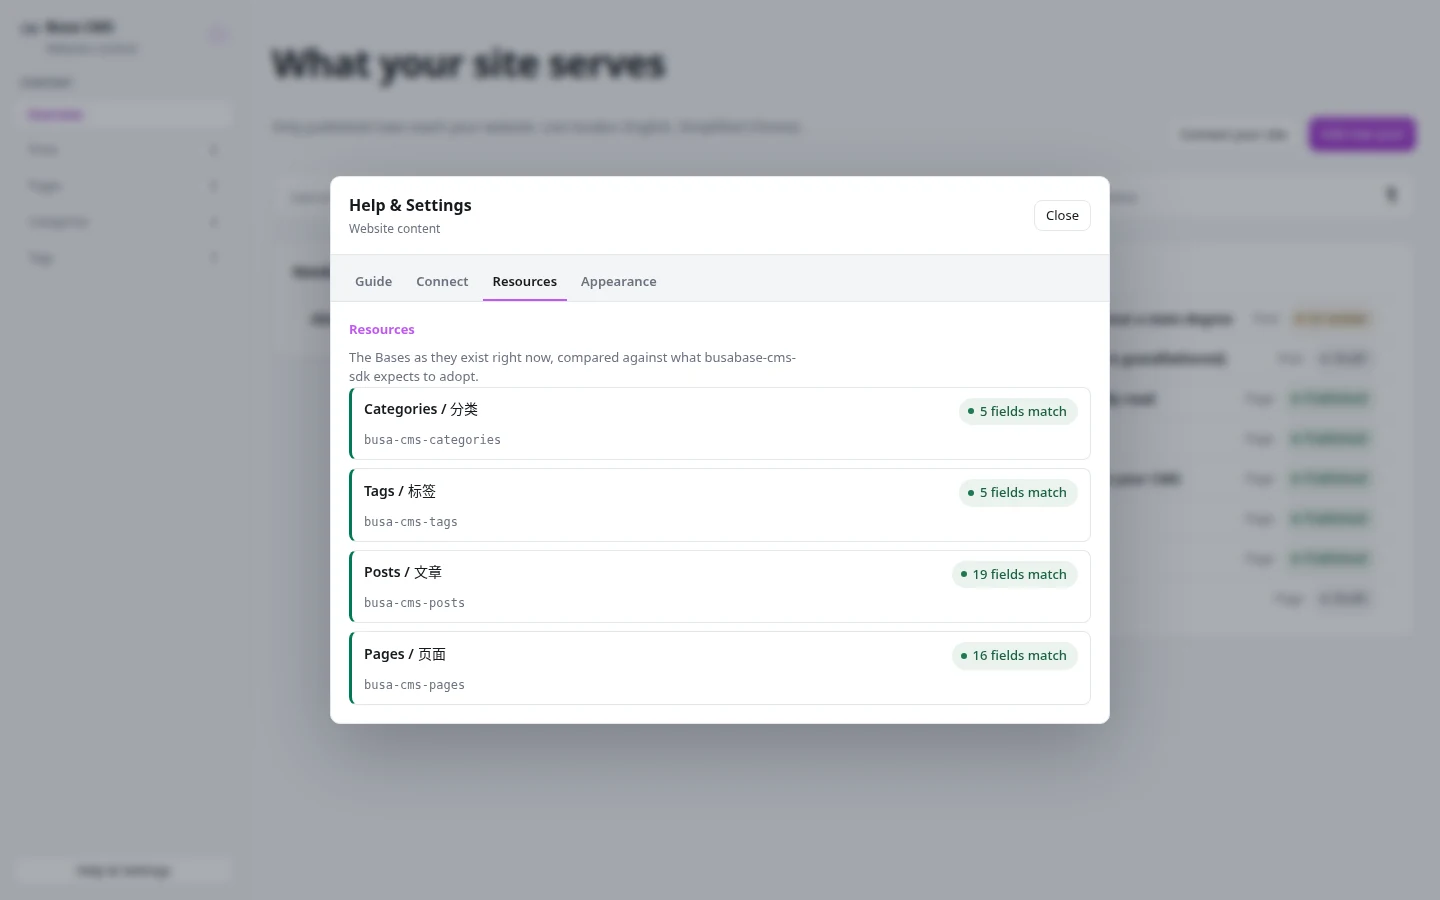
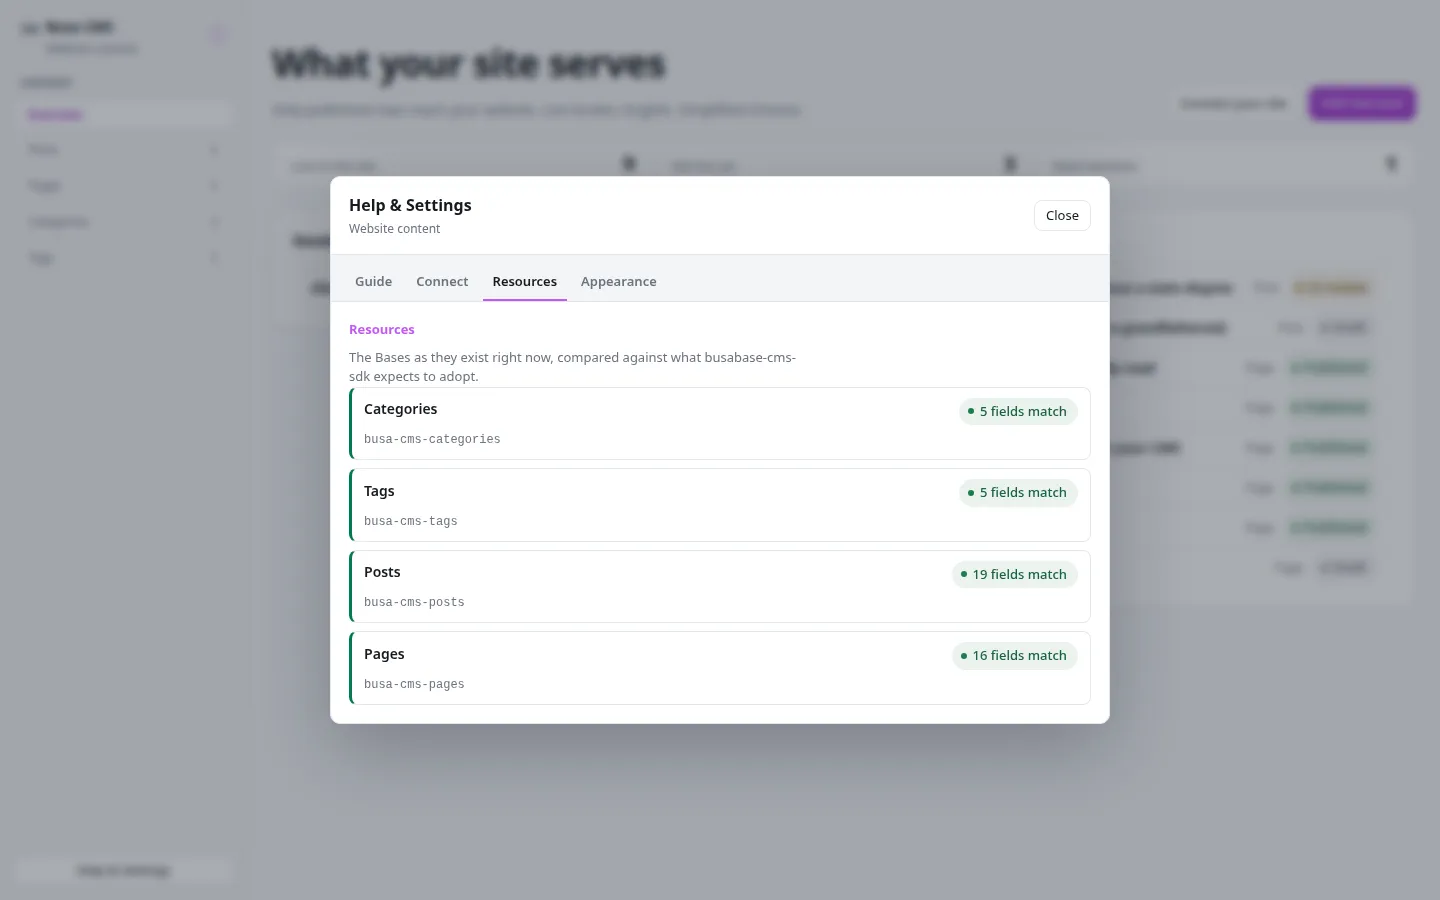
feat(busa-cms): English-only display names (#55)

diff --git a/templates/busa-cms/content/busa-cms-app/app/js/schema.js b/templates/busa-cms/content/busa-cms-app/app/js/schema.js
@@ -7,6 +7,15 @@
  * Node project served from a Busabase node: it cannot resolve an npm package
  * that only the website using this content has installed.
  *
+ * One deliberate divergence: display names. The SDK provisions paired
+ * "English / 中文" Base and choice names; this template installs the English
+ * name alone and keeps the Chinese name in `localizedName` (fields already
+ * carry theirs as the { en, "zh-CN" } name record), which the app renders per
+ * viewer language. Slugs, choice ids, field types, required flags and order
+ * still mirror the SDK exactly — `check-sdk-contract.mjs` therefore reports
+ * the name/description differences by design, and they are the known,
+ * intended exception until the SDK makes the same split.
+ *
  * That makes drift the real risk, so it is checked rather than trusted:
  * `node scripts/check-sdk-contract.mjs` (run from the template root) resolves the
  * published `busabase-cms-sdk` and asserts every Base, field, type, required flag,
@@ -25,7 +34,7 @@
 const i18n = (en, zhCN) => ({ en, "zh-CN": zhCN });
 
 const choices = (values) => ({
-  choices: values.map(([id, en, zhCN]) => ({ id, name: `${en} / ${zhCN}` })),
+  choices: values.map(([id, en, zhCN]) => ({ id, name: en, localizedName: i18n(en, zhCN) })),
 });
 
 export const LOCALE_OPTIONS = choices([
@@ -132,26 +141,34 @@ const pageFields = () => [
 export const CMS_BASES = [
   {
     role: "categories",
-    name: "Categories / 分类",
-    description: "Reusable content categories / 可复用的内容分类",
+    name: "Categories",
+    localizedName: i18n("Categories", "分类"),
+    description: "Reusable content categories",
+    localizedDescription: i18n("Reusable content categories", "可复用的内容分类"),
     fields: taxonomyFields(),
   },
   {
     role: "tags",
-    name: "Tags / 标签",
-    description: "Reusable content tags / 可复用的内容标签",
+    name: "Tags",
+    localizedName: i18n("Tags", "标签"),
+    description: "Reusable content tags",
+    localizedDescription: i18n("Reusable content tags", "可复用的内容标签"),
     fields: taxonomyFields(),
   },
   {
     role: "posts",
-    name: "Posts / 文章",
-    description: "Publishable Markdown posts / 可发布的 Markdown 文章",
+    name: "Posts",
+    localizedName: i18n("Posts", "文章"),
+    description: "Publishable Markdown posts",
+    localizedDescription: i18n("Publishable Markdown posts", "可发布的 Markdown 文章"),
     fields: postFields(),
   },
   {
     role: "pages",
-    name: "Pages / 页面",
-    description: "Publishable HTML pages / 可发布的 HTML 页面",
+    name: "Pages",
+    localizedName: i18n("Pages", "页面"),
+    description: "Publishable HTML pages",
+    localizedDescription: i18n("Publishable HTML pages", "可发布的 HTML 页面"),
     fields: pageFields(),
   },
 ];
@@ -161,14 +178,17 @@ export const CMS_SCHEMA_VERSION = 1;
 export const CMS_SCHEMA_PROFILE = "standard";
 
 /**
- * Choice id → its "English / 中文" name, for the labels the UI shows. Derived from
- * the field definitions above so a choice can never be renamed in one place only.
+ * Choice id → its localized name ({ en, "zh-CN" }), for the labels the UI shows.
+ * The installed choice `name` is the English name alone; the Chinese name lives
+ * in `localizedName`, which is what the UI renders per viewer language. Derived
+ * from the field definitions above so a choice can never be renamed in one
+ * place only.
  */
 const namedChoices = (role, slug) =>
   Object.fromEntries(
     (CMS_BASES.find((base) => base.role === role)
       ?.fields.find((field) => field.slug === slug)
-      ?.options?.choices ?? []).map((choice) => [choice.id, choice.name]),
+      ?.options?.choices ?? []).map((choice) => [choice.id, choice.localizedName]),
   );
 
 export const CHOICES = {

diff --git a/templates/busa-cms/content/busa-cms-app/app/js/config.js b/templates/busa-cms/content/busa-cms-app/app/js/config.js
@@ -88,7 +88,8 @@ const views = {
   categories: [
     {
       key: "all-categories",
-      name: "All Categories / 全部分类",
+      name: "All Categories",
+      localizedName: { en: "All Categories", "zh-CN": "全部分类" },
       type: "table",
       config: {
         visibleFieldSlugs: ["name", "slug", "locale", "description", "updated-at"],
@@ -100,7 +101,8 @@ const views = {
   tags: [
     {
       key: "all-tags",
-      name: "All Tags / 全部标签",
+      name: "All Tags",
+      localizedName: { en: "All Tags", "zh-CN": "全部标签" },
       type: "table",
       config: {
         visibleFieldSlugs: ["name", "slug", "locale", "description", "updated-at"],
@@ -114,7 +116,8 @@ const views = {
       // Filtered on `status`, because that is the only state the SDK reads:
       // anything not "published" is invisible to the live site.
       key: "published-posts",
-      name: "Published / 已发布",
+      name: "Published",
+      localizedName: { en: "Published", "zh-CN": "已发布" },
       type: "table",
       config: {
         filters: [{ fieldSlug: "status", operator: "equals", value: "published" }],
@@ -125,7 +128,8 @@ const views = {
     },
     {
       key: "all-posts",
-      name: "All Posts / 全部文章",
+      name: "All Posts",
+      localizedName: { en: "All Posts", "zh-CN": "全部文章" },
       type: "table",
       config: {
         visibleFieldSlugs: ["title", "path", "status", "locale", "author", "published-at"],
@@ -135,7 +139,8 @@ const views = {
     },
     {
       key: "post-seo",
-      name: "SEO review / SEO 检查",
+      name: "SEO review",
+      localizedName: { en: "SEO review", "zh-CN": "SEO 检查" },
       type: "table",
       config: {
         visibleFieldSlugs: ["title", "path", "seo-title", "seo-description", "canonical-url", "cover-image"],
@@ -147,7 +152,8 @@ const views = {
   pages: [
     {
       key: "site-map",
-      name: "Site pages / 站点页面",
+      name: "Site pages",
+      localizedName: { en: "Site pages", "zh-CN": "站点页面" },
       type: "table",
       config: {
         visibleFieldSlugs: ["title", "path", "template", "locale", "status", "updated-at"],
@@ -157,7 +163,8 @@ const views = {
     },
     {
       key: "published-pages",
-      name: "Published / 已发布",
+      name: "Published",
+      localizedName: { en: "Published", "zh-CN": "已发布" },
       type: "table",
       config: {
         filters: [{ fieldSlug: "status", operator: "equals", value: "published" }],

diff --git a/templates/busa-cms/content/busa-cms-app/app/js/format.js b/templates/busa-cms/content/busa-cms-app/app/js/format.js
@@ -21,11 +21,26 @@ export function formatDate(value) {
 }
 
 /**
- * Choice names arrive as "English / 中文" — one string carrying both, which is
- * what the SDK provisions. A badge has room for one, so pick the half that
- * matches the UI language instead of truncating.
+ * A localized name record ({ en, "zh-CN" }) → the one name that matches the UI
+ * language. Installed display names are the English name alone; the Chinese
+ * name lives in `localizedName`, which is what this UI renders per language.
+ */
+export function localizedName(value) {
+  if (value && typeof value === "object") {
+    return store.uiLanguage === "zh-CN" ? (value["zh-CN"] ?? value.en ?? "") : (value.en ?? "");
+  }
+  return String(value ?? "");
+}
+
+/**
+ * Choice labels arrive as localizedName records from `CHOICES` in schema.js.
+ * A badge has room for one language, so pick the matching one instead of
+ * truncating. Plain strings still occur in names provisioned by older
+ * installs, where one string carried both languages as "English / 中文" —
+ * pick the matching half of those too.
  */
 export function localizedChoice(name) {
+  if (name && typeof name === "object") return localizedName(name);
   const parts = String(name ?? "").split(" / ");
   if (parts.length < 2) return parts[0] ?? "";
   return store.uiLanguage === "zh-CN" ? parts[1] : parts[0];

diff --git a/templates/busa-cms/content/busa-cms-app/app/js/help-modal.js b/templates/busa-cms/content/busa-cms-app/app/js/help-modal.js
@@ -1,5 +1,5 @@
 import { toast } from "./api.js";
-import { copyToClipboard, escapeHtml } from "./format.js";
+import { copyToClipboard, escapeHtml, localizedName } from "./format.js";
 import { t } from "./i18n.js";
 import { syncRoute } from "./router.js";
 import { $, store } from "./store.js";
@@ -137,7 +137,7 @@ function renderResourcesTab() {
           (base) => `
         <div class="health health--${base.tone}">
           <div class="health-head">
-            <span class="health-name">${escapeHtml(base.name)}</span>
+            <span class="health-name">${escapeHtml(localizedName(base.localizedName) || base.name)}</span>
             <span class="badge ${base.tone === "ok" ? "positive" : ""}">${escapeHtml(
               base.tone === "ok"
                 ? t("resources.fields_match", { count: base.fieldCount })

diff --git a/templates/busa-cms/content/busa-cms-app/app/js/schema-health.js b/templates/busa-cms/content/busa-cms-app/app/js/schema-health.js
@@ -58,6 +58,7 @@ export function diffSchema(live) {
     return {
       key: expected.role,
       name: expected.name,
+      localizedName: expected.localizedName,
       slug: actual?.slug ?? "",
       fieldCount: expected.fields.length,
       tone: problems.some((problem) => problem.tone === "danger")
